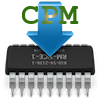
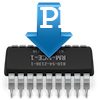
Refinements for the mode selection

Changed region(s): [[0.03, 0.0, 0.96, 0.99]]

diff --git a/src/main/java/com/grelobites/dandanator/cpm/model/HandlerType.java b/src/main/java/com/grelobites/dandanator/cpm/model/HandlerType.java
@@ -8,17 +8,19 @@ import com.grelobites.dandanator.cpm.handlers.SpectrumCpmRomSetHandler;
 import javafx.scene.image.Image;
 
 public enum HandlerType {
-    SPECTRUM(SpectrumCpmRomSetHandler.class, Constants.SPECTRUM_ICON),
-    CPC(CpcCpm22RomSetHandler.class, Constants.CPC_ICON),
-    CPC_CPMPLUS(CpcCpmPlusRomSetHandler.class, Constants.CPC_ICON);
+    SPECTRUM(SpectrumCpmRomSetHandler.class, Constants.SPECTRUM_ICON, "Spectrum"),
+    CPC_464(CpcCpm22RomSetHandler.class, Constants.CPC464_ICON, "CPC 464"),
+    CPC_6128(CpcCpmPlusRomSetHandler.class, Constants.CPC6128_ICON, "CPC 6128");
 
 
     private Class<? extends RomSetHandler> handlerClass;
     private Image icon;
+    private String caption;
 
-    HandlerType(Class<? extends RomSetHandler> handlerClass, Image icon) {
+    HandlerType(Class<? extends RomSetHandler> handlerClass, Image icon, String caption) {
         this.handlerClass = handlerClass;
         this.icon = icon;
+        this.caption = caption;
     }
 
     public RomSetHandler handler(ApplicationContext context) {
@@ -31,6 +33,10 @@ public enum HandlerType {
 
     public Image icon() {
         return icon;
+    }
+
+    public String toString() {
+        return caption;
     }
 
 }

diff --git a/src/main/java/com/grelobites/dandanator/cpm/view/PreferencesController.java b/src/main/java/com/grelobites/dandanator/cpm/view/PreferencesController.java
@@ -122,6 +122,11 @@ public class PreferencesController {
                 });
     }
 
+    private void updateBootImageControl(HandlerType handlerType) {
+        boolean bootImageDisabled = handlerType != HandlerType.SPECTRUM;
+        changeBootImageButton.setDisable(bootImageDisabled);
+        resetBootImageButton.setDisable(bootImageDisabled);
+    }
     @FXML
     private void initialize() throws IOException {
         initializeImages();
@@ -133,8 +138,10 @@ public class PreferencesController {
         ));
 
         handlerTypeChoiceBox.getSelectionModel().select(Preferences.getInstance().getHandlerType());
-        handlerTypeChoiceBox.getSelectionModel().selectedItemProperty().addListener((e, oldValue, newValue) ->
-                Preferences.getInstance().setHandlerType(newValue));
-
+        updateBootImageControl(Preferences.getInstance().getHandlerType());
+        handlerTypeChoiceBox.getSelectionModel().selectedItemProperty().addListener((e, oldValue, newValue) -> {
+            Preferences.getInstance().setHandlerType(newValue);
+            updateBootImageControl(newValue);
+        });
     }
 }

diff --git a/src/main/java/com/grelobites/dandanator/cpm/Constants.java b/src/main/java/com/grelobites/dandanator/cpm/Constants.java
@@ -28,8 +28,9 @@ public class Constants {
 	public static final String GREEN_BACKGROUND_STYLE = "green-background";
 	public static final String NORMAL_BACKGROUND_STYLE = "normal-background";
 
-    public static final Image SPECTRUM_ICON = new Image(Constants.class.getResourceAsStream("/color-logo.png"));
-    public static final Image CPC_ICON = new Image(Constants.class.getResourceAsStream("/color-logo-cpc.png"));
+    public static final Image SPECTRUM_ICON = new Image(Constants.class.getResourceAsStream("/logo-spectrum.png"));
+    public static final Image CPC464_ICON = new Image(Constants.class.getResourceAsStream("/logo-464.png"));
+    public static final Image CPC6128_ICON = new Image(Constants.class.getResourceAsStream("/logo-6128.png"));
 
 
 
